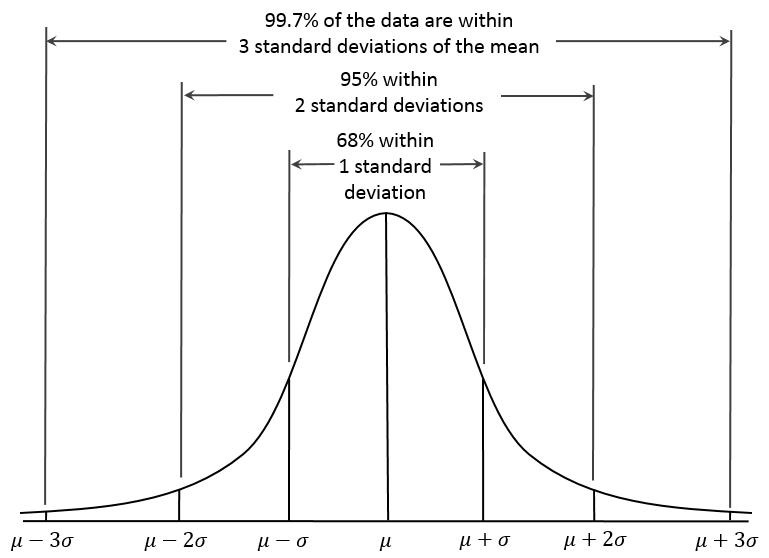
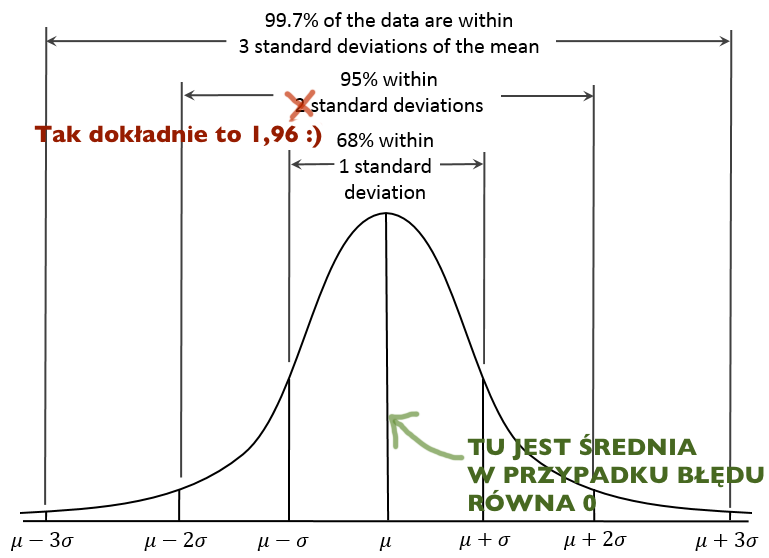
dodane materialy o bledzie

Changed region(s): [[0.4993, 0.7312, 0.9987, 0.914], [0.0312, 0.1523, 0.4369, 0.2742]]

diff --git a/Zajecia08.md b/Zajecia08.md
@@ -8,13 +8,14 @@ $s_x$ - odchylenie standardowe wyników testowych
 $r_tt$ - rzetelność testu  
 
 ## SEM ma rozkład normalny...
-<!-- ![By Dan Kernler - Own work, CC BY-SA 4.0, https://commons.wikimedia.org/w/index.php?curid=36506025](img/rn.png){#id .class height=350px}  
- -->
+![By Dan Kernler - Own work, CC BY-SA 4.0, https://commons.wikimedia.org/w/index.php?curid=36506025](img/rn.png){#id .class height=350px}
+<small>Zmodyfikowane z Dan Kernler - Own work, CC BY-SA 4.0, https://commons.wikimedia.org/w/index.php?curid=36506025</small>
+
 ## ...i dlatego:
-- 68% wyników mieści się w zakresie +/- 1 SD
-- 90% wyników mieści się w zakresie +/- 1,64 SD
-- 95% wyników mieści się w zakresie +/- 1,96 SD
-- 99% wyników mieści się w zakresie +/- 2,58 SD
+- 68% wyników mieści się w zakresie +/- 1 SEM
+- 90% wyników mieści się w zakresie +/- 1,64 SEM
+- 95% wyników mieści się w zakresie +/- 1,96 SEM
+- 99% wyników mieści się w zakresie +/- 2,58 SEM
 
 ## Zadanko
 Skonstruujcie 95% przedział ufności dla wyniku 100 w teście o odchyleniu standardowym 15 i rzetelności 0,902
@@ -24,12 +25,12 @@ $$SEM=s_x\sqrt{1-r_{tt}}$$
 ## Błąd standardowy różnicy między dwoma wynikami
 $SE_{diff}=\sqrt{SEM_1^2+SEM_2^2}$
 $SE_{diff}=\sqrt{s_{x1}^2(1-r_{tt1})+s_{x2}^2(1-r_{tt2})}$
-$SE_{diff}=s_{x}\sqrt{2-r_{tt1}-r_{tt2}}$  
+$SE_{diff}=s_{x}\sqrt{2(1-r_{tt})}$  
 
 ## $SE_{diff}$ również ma rozkład normalny
 ...i dlatego mamy 95% szansy, że różnica wynosząca minimum $1,96 * SE_{diff}$ jest nieprzypadkowa.  
 W tym przypadku poziom ufności p wynosi $1-0.95=0.05$
 
 ## Zadanko
-W teście o rzetelności 0,9 i odchyleniu standardowym 5 otrzymaliśmy u jednego badanego wynik 25 a u drugiego 35. Czy mamy prawo twierdzić, że te wyniki się różnią? Przyjmijcie p = 0.05
-$SE_{diff}=s_{x}\sqrt{2-r_{tt1}-r_{tt2}}$  
+W teście o rzetelności 0,9 i odchyleniu standardowym 5 otrzymaliśmy u jednego badanego wynik 25 a u drugiego 35. Czy mamy prawo twierdzić, że te wyniki się różnią? Przyjmijcie p = 0.05  
+$SE_{diff}=s_{x}\sqrt{2(1-r_{tt})}$   
